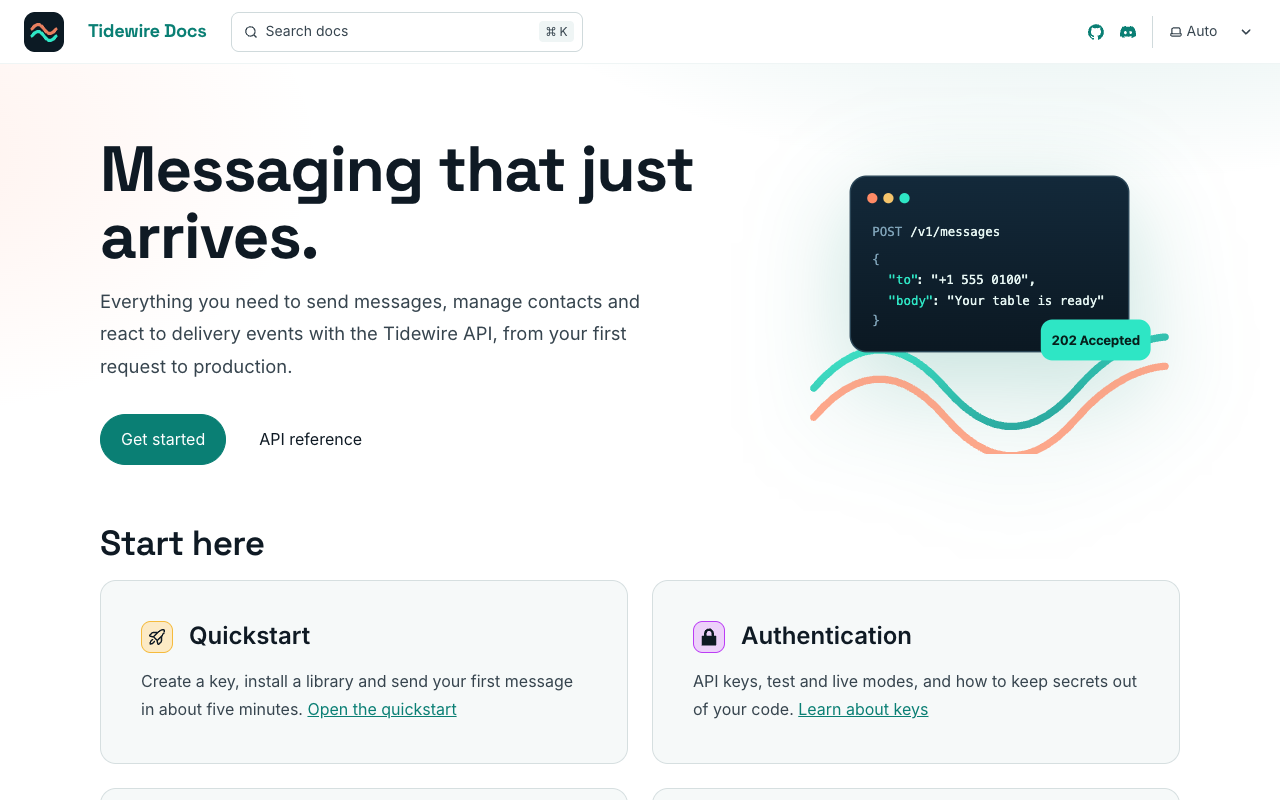
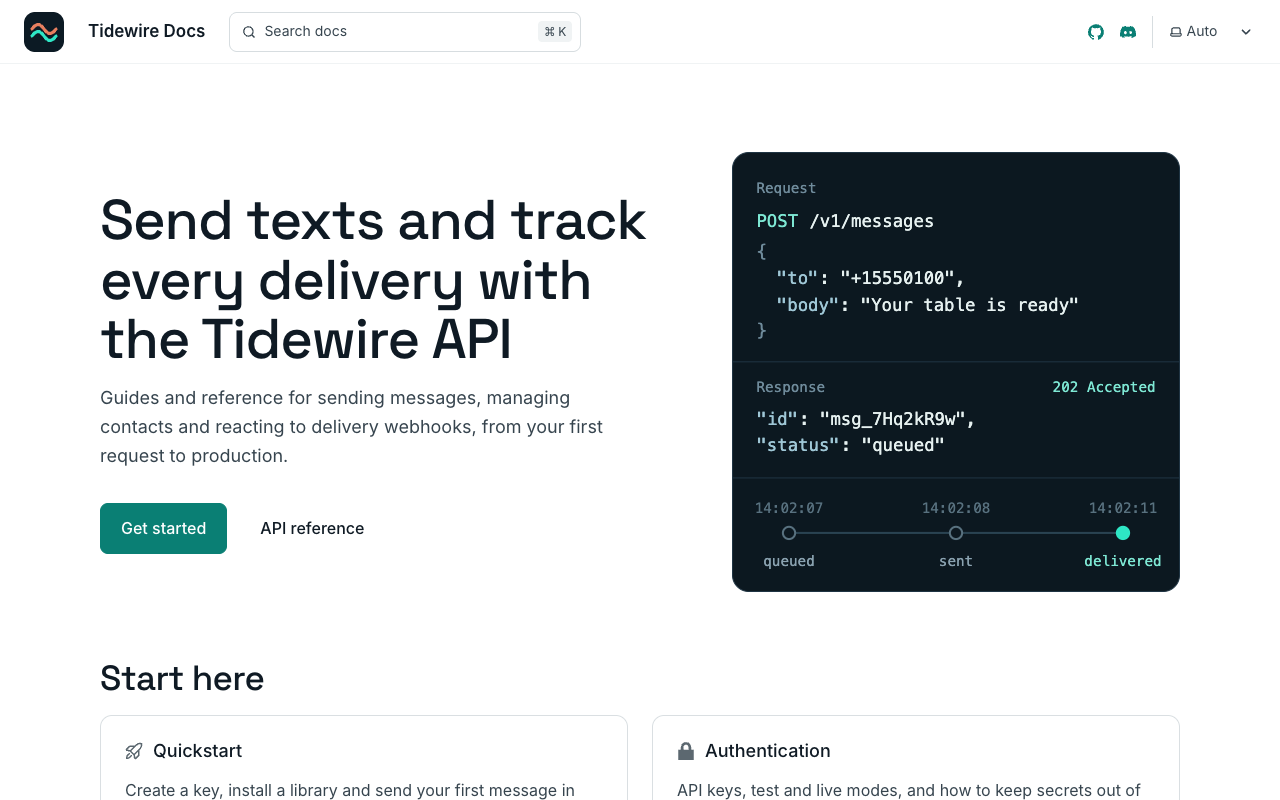
Unslop pass: quiet chrome, a real request card in the hero, delivery trail as the signature
- Hero headline says what the API does; radial washes and image glow removed
- Hero image redrawn flat: request, 202 response and the queued, sent,
  delivered trail, with type large enough to read on phones; on phones the
  headline leads, left-aligned, and the card follows the actions
- Start here cards: one neutral surface, muted icons instead of colored tiles
- Headings at weight 500, tight tracking only on large headings; site title
  in primary text
- Sidebar current page as a surface step, quiet version badge and banner
- Endpoint methods as outlined mono labels; code blocks without window dots
  or shadow; pill buttons now 8px
- UNSLOP.md with audit and direction; screenshots retaken

diff --git a/src/styles/theme.css b/src/styles/theme.css
@@ -1,10 +1,10 @@
-/* Tidewire theme: deep sea ink with aqua and coral. Change the colors here. */
+/* Tidewire theme: deep sea ink with one aqua accent. Change the colors here. */
 
 :root {
   --sl-font: "Inter Variable", system-ui, sans-serif;
   --sl-font-mono: "JetBrains Mono Variable", ui-monospace, monospace;
   --tw-font-display: "Space Grotesk Variable", "Inter Variable", system-ui, sans-serif;
-  --tw-coral: #ff8a65;
+  --tw-ease: cubic-bezier(0.22, 1, 0.36, 1);
   /* Note callouts and badges use this hue: a deep sea blue instead of the default. */
   --sl-hue-blue: 196;
 
@@ -15,7 +15,7 @@
   --sl-color-white: hsl(180, 30%, 98%);
   --sl-color-gray-1: hsl(196, 22%, 90%);
   --sl-color-gray-2: hsl(198, 14%, 76%);
-  --sl-color-gray-3: hsl(200, 10%, 58%);
+  --sl-color-gray-3: hsl(200, 10%, 62%);
   --sl-color-gray-4: hsl(204, 14%, 36%);
   --sl-color-gray-5: hsl(206, 24%, 20%);
   --sl-color-gray-6: hsl(208, 34%, 11%);
@@ -24,10 +24,15 @@
   --sl-color-bg-sidebar: hsl(210, 40%, 7%);
   --sl-color-hairline: hsl(206, 26%, 15%);
   --sl-color-hairline-light: hsl(206, 22%, 20%);
+
+  /* Endpoint methods: the color says what the call does */
+  --tw-get: hsl(205, 85%, 66%);
+  --tw-post: var(--sl-color-accent-high);
+  --tw-delete: hsl(8, 85%, 70%);
 }
 
 :root[data-theme="light"] {
-  --sl-color-accent-low: hsl(168, 70%, 90%);
+  --sl-color-accent-low: hsl(168, 50%, 93%);
   --sl-color-accent: hsl(174, 85%, 27%);
   --sl-color-accent-high: hsl(176, 80%, 20%);
   --sl-color-white: hsl(208, 40%, 10%);
@@ -35,78 +40,145 @@
   --sl-color-gray-2: hsl(206, 18%, 26%);
   --sl-color-gray-3: hsl(204, 10%, 40%);
   --sl-color-gray-4: hsl(200, 10%, 58%);
-  --sl-color-gray-5: hsl(190, 14%, 84%);
-  --sl-color-gray-6: hsl(180, 22%, 95%);
-  --sl-color-gray-7: hsl(170, 25%, 97.5%);
+  --sl-color-gray-5: hsl(200, 12%, 86%);
+  --sl-color-gray-6: hsl(200, 16%, 95%);
+  --sl-color-gray-7: hsl(200, 20%, 97.5%);
   --sl-color-black: hsl(0, 0%, 100%);
   --sl-color-bg-nav: hsl(0, 0%, 100%);
-  --sl-color-bg-sidebar: hsl(170, 25%, 97.5%);
-  --sl-color-hairline: hsl(190, 16%, 90%);
-  --sl-color-hairline-light: hsl(190, 14%, 86%);
+  --sl-color-bg-sidebar: hsl(200, 20%, 97.5%);
+  --sl-color-hairline: hsl(200, 14%, 91%);
+  --sl-color-hairline-light: hsl(200, 12%, 87%);
+
+  --tw-get: hsl(205, 85%, 32%);
+  --tw-post: var(--sl-color-accent);
+  --tw-delete: hsl(8, 75%, 40%);
 }
 
-/* Headings */
+/* Headings: display face, weight 500, tight tracking only where the size allows it */
 .sl-markdown-content :is(h1, h2, h3, h4),
 h1#_top,
-.hero h1,
-.site-title {
+.hero h1 {
   font-family: var(--tw-font-display);
+  font-weight: 500;
+}
+h1#_top,
+.sl-markdown-content h2 {
   letter-spacing: -0.02em;
 }
-h1#_top {
-  font-weight: 700;
-}
 .site-title {
-  font-weight: 700;
-  font-size: 1.15rem;
+  color: var(--sl-color-white);
+  font-weight: 600;
+  font-size: 1.0625rem;
 }
 
-/* Sidebar: pill highlight for the current page */
-nav.sidebar a[aria-current="page"],
-nav.sidebar a[aria-current="page"]:hover {
-  background: var(--sl-color-accent-low);
-  color: var(--sl-color-accent-high);
-  font-weight: 600;
-  border-radius: 0.5rem;
-}
+/* Sidebar: the current page is a small surface step, not a colored pill */
 nav.sidebar a {
   border-radius: 0.5rem;
+  transition: background-color 150ms var(--tw-ease), color 150ms var(--tw-ease);
+}
+nav.sidebar a[aria-current="page"],
+nav.sidebar a[aria-current="page"]:hover {
+  background: var(--sl-color-gray-6);
+  color: var(--sl-color-white);
+  font-weight: 500;
+  box-shadow: inset 2px 0 0 var(--sl-color-accent);
+}
+/* The API version badge reads as quiet mono text */
+.sidebar-content .sl-badge {
+  background: transparent;
+  border-color: var(--sl-color-hairline-light);
+  color: var(--sl-color-gray-3);
 }
 
-/* Cards */
+/* Version banner on API pages: a quiet strip with an accent link */
+.sl-banner {
+  background: var(--sl-color-gray-6);
+  color: var(--sl-color-gray-2);
+  border-bottom: 1px solid var(--sl-color-hairline);
+  box-shadow: none;
+  font-size: var(--sl-text-sm);
+}
+.sl-banner a {
+  color: var(--sl-color-accent-high);
+}
+:root[data-theme="light"] .sl-banner a {
+  color: var(--sl-color-accent);
+}
+
+/* Cards: one neutral surface, icons in the muted text color */
 .card {
-  border-radius: 1rem !important;
+  border-radius: 0.75rem !important;
   border-color: var(--sl-color-hairline-light) !important;
-  background: color-mix(in srgb, var(--sl-color-gray-6) 55%, transparent) !important;
-  transition: border-color 0.2s ease, transform 0.2s ease;
+  background: var(--sl-color-black) !important;
+  padding: 1.5rem !important;
+  transition: border-color 150ms var(--tw-ease);
 }
 .card:hover {
-  border-color: var(--sl-color-accent) !important;
+  border-color: var(--sl-color-gray-4) !important;
+}
+.card .title {
+  font-size: var(--sl-text-lg);
+  font-weight: 500;
+  gap: 0.625rem;
 }
 .card .icon {
-  border-radius: 0.6rem;
+  border: 0 !important;
+  background: none !important;
+  padding: 0 !important;
+  color: var(--sl-color-gray-3);
+  font-size: 1.125rem !important;
+}
+.sl-link-card {
+  border-radius: 0.75rem;
+  box-shadow: none;
+  transition: background-color 150ms var(--tw-ease), border-color 150ms var(--tw-ease);
+}
+.sl-link-card .title {
+  font-weight: 500;
 }
 
 /* Landing hero */
-[data-has-hero] .page {
-  background:
-    radial-gradient(60rem 30rem at 85% -10%, color-mix(in srgb, var(--sl-color-accent) 18%, transparent), transparent 70%),
-    radial-gradient(40rem 24rem at -10% 10%, color-mix(in srgb, var(--tw-coral) 12%, transparent), transparent 70%);
-}
 .hero {
-  padding-block: 3rem 2rem;
+  padding-block: 4rem 2.5rem;
 }
 .hero h1 {
-  font-size: clamp(2.4rem, 6vw, 4rem);
-  line-height: 1.04;
-  font-weight: 700;
+  font-size: clamp(2.25rem, 5vw, 3.5rem);
+  line-height: 1.06;
+  letter-spacing: -0.03em;
+  text-wrap: balance;
 }
 .hero .tagline {
-  font-size: 1.15rem;
-  max-width: 36rem;
+  font-size: 1.125rem;
+  line-height: 1.6;
+  max-width: 34rem;
 }
-.hero img {
-  filter: drop-shadow(0 24px 48px hsl(169 78% 30% / 0.25));
+/* On phones the headline leads, aligned left, and the request card follows the actions */
+.hero > img {
+  order: 2;
+  width: 100%;
+  margin-inline: 0;
+}
+.hero .stack {
+  text-align: start;
+}
+.hero .copy {
+  align-items: flex-start;
+}
+.hero .actions {
+  justify-content: flex-start;
+}
+@media (min-width: 50rem) {
+  .hero {
+    grid-template-columns: 6fr 5fr;
+  }
+  .hero > img {
+    width: min(100%, 28rem);
+    margin-inline: auto 0;
+  }
+}
+.hero .sl-link-button {
+  border-radius: 0.5rem;
+  font-weight: 500;
 }
 
 /* Endpoint labels used in the API reference */
@@ -114,44 +186,39 @@ nav.sidebar a {
   display: flex;
   flex-wrap: wrap;
   align-items: center;
-  gap: 0.6rem;
-  padding: 0.7rem 0.9rem;
+  gap: 0.75rem;
+  padding: 0.75rem 1rem;
   border: 1px solid var(--sl-color-hairline-light);
   border-radius: 0.75rem;
   background: var(--sl-color-gray-6);
   font-family: var(--sl-font-mono);
-  font-size: 0.9rem;
+  font-size: 0.875rem;
   overflow-wrap: anywhere;
 }
 .method {
   display: inline-block;
-  padding: 0.1rem 0.5rem;
-  border-radius: 0.4rem;
-  font-weight: 700;
+  min-width: 3.75rem;
+  padding: 0.125rem 0.5rem;
+  border: 1px solid currentColor;
+  border-radius: 0.25rem;
+  font-weight: 500;
   font-size: 0.75rem;
-  letter-spacing: 0.04em;
+  text-align: center;
 }
 .method.get {
-  background: hsl(205 80% 50% / 0.16);
-  color: hsl(205 85% 62%);
+  color: var(--tw-get);
 }
 .method.post {
-  background: hsl(169 78% 45% / 0.16);
-  color: var(--sl-color-accent-high);
+  color: var(--tw-post);
 }
 .method.delete {
-  background: hsl(8 85% 60% / 0.16);
-  color: hsl(8 85% 66%);
-}
-:root[data-theme="light"] .method.get {
-  color: hsl(205 85% 32%);
-}
-:root[data-theme="light"] .method.delete {
-  color: hsl(8 75% 40%);
+  color: var(--tw-delete);
 }
 
 @media (prefers-reduced-motion: reduce) {
-  .card {
+  .card,
+  .sl-link-card,
+  nav.sidebar a {
     transition: none;
   }
 }

diff --git a/UNSLOP.md b/UNSLOP.md
@@ -1,0 +1,32 @@
+# Unslop notes
+
+Pass made with the unslop skill by Damir Sokolovsky ([@heydamir](https://x.com/heydamir)), CC BY 4.0.
+
+## Audit (before)
+
+Level: light. Starlight gave it a sound structure and the ink and aqua palette fits the product; the signs were in the theme and the home page.
+
+- Home hero: two radial color washes (aqua and coral) behind the page, and a teal drop-shadow glow on the hero image
+- Hero headline "Messaging that just arrives." could fit any messaging product, with a trailing period
+- Hero image: gradient wave strokes, traffic-light window dots and a bold filled "202 Accepted" pill
+- Hero buttons as full pills
+- Start here cards: an icon in a different colored tile on each card (orange, purple, green, red) and an accent border on hover
+- 700 weights on the page title, hero headline and site title; -0.02em tracking on every heading down to h4
+- Site title in the accent color
+- Current sidebar page as an accent pill at weight 600
+- API pages: a solid accent banner across the top, and the version badge in the sidebar as a filled accent tag
+- Endpoint method labels as tinted pills at weight 700 with wide tracking
+- Trailing periods on the short Popular guides descriptions
+
+## Direction
+
+- Product: documentation for the Tidewire SMS API, for developers sending texts, managing contacts and reading delivery webhooks
+- Character: precise, calm, a little salt-air
+- World: the tide table and the message log, deep sea ink with aqua for what got through
+- Moments: the hero request card, a real POST with its 202 answer and the message's delivery trail
+- Signature: the delivery trail (queued, sent, delivered) with only the delivered step in aqua
+
+## Screenshots
+
+- screenshot-2: Messages API reference
+- screenshot-3: Quickstart guide

diff --git a/README.md b/README.md
@@ -17,7 +17,7 @@ A fast, static docs site for APIs and developer products, built with Astro Starl
 - Versioning page, an API version badge in the sidebar and a version banner on reference pages
 - `llms.txt` at the site root, generated from your pages at build
 - Sitemap, `robots.txt`, Open Graph tags and a custom 404 page
-- Custom theme (deep sea ink, aqua and coral) for dark and light mode, with Space Grotesk, Inter and JetBrains Mono self-hosted
+- Custom theme (deep sea ink with one aqua accent) for dark and light mode, with Space Grotesk, Inter and JetBrains Mono self-hosted
 - Fully static output (`dist/`), so it runs on any static host
 
 ## Run it locally
